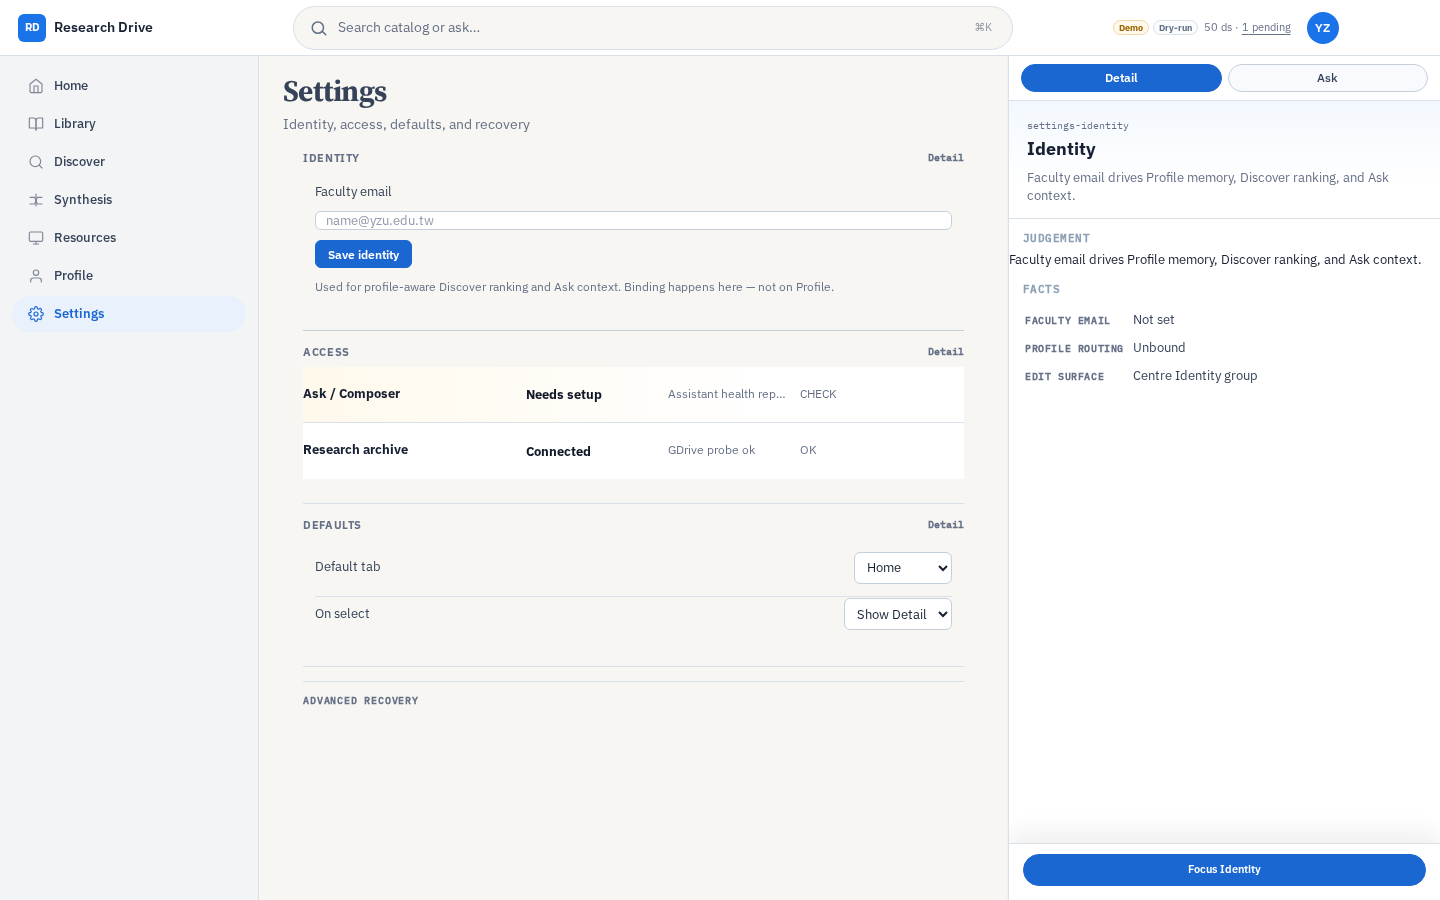
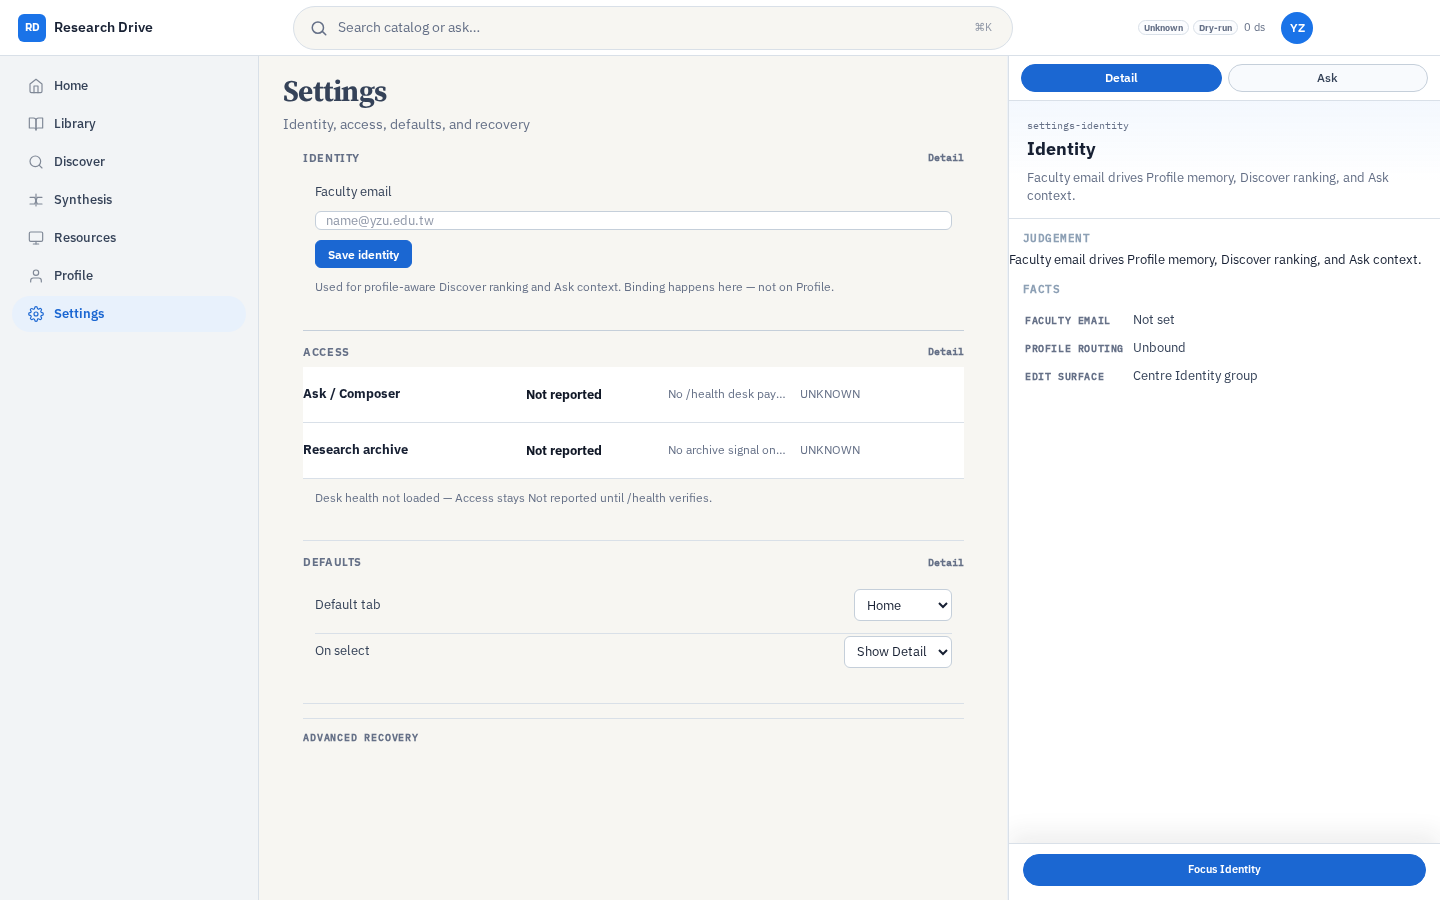
fix(ui): drop lucide from EmptyRail and refresh Settings proof shots
Remove the lucide-react import that broke the local harness overlay, and replace Settings desktop/mobile screenshots with clean unscrolled captures after Access/card restraint.

diff --git a/drive/src/v2/EmptyRailState.jsx b/drive/src/v2/EmptyRailState.jsx
@@ -1,12 +1,23 @@
-import { FolderOpen } from "lucide-react";
-
 export function EmptyRailState({
   title = "No dataset selected",
   hint = "Select a row in the catalog to inspect metadata, preview rows, or ask about procurement.",
 }) {
   return (
     <div className="rd-v2-rail-empty-state" role="status">
-      <FolderOpen className="rd-v2-rail-empty-icon" size={40} strokeWidth={1.25} aria-hidden />
+      <svg
+        className="rd-v2-rail-empty-icon"
+        width="40"
+        height="40"
+        viewBox="0 0 24 24"
+        fill="none"
+        stroke="currentColor"
+        strokeWidth="1.25"
+        strokeLinecap="round"
+        strokeLinejoin="round"
+        aria-hidden="true"
+      >
+        <path d="M4 20h16a2 2 0 0 0 2-2V8a2 2 0 0 0-2-2h-7.9a2 2 0 0 1-1.7-.9l-.8-1.2A2 2 0 0 0 7.9 3H4a2 2 0 0 0-2 2v13a2 2 0 0 0 2 2Z" />
+      </svg>
       <p className="rd-v2-rail-empty-title">{title}</p>
       <p className="rd-v2-rail-empty-hint">{hint}</p>
     </div>